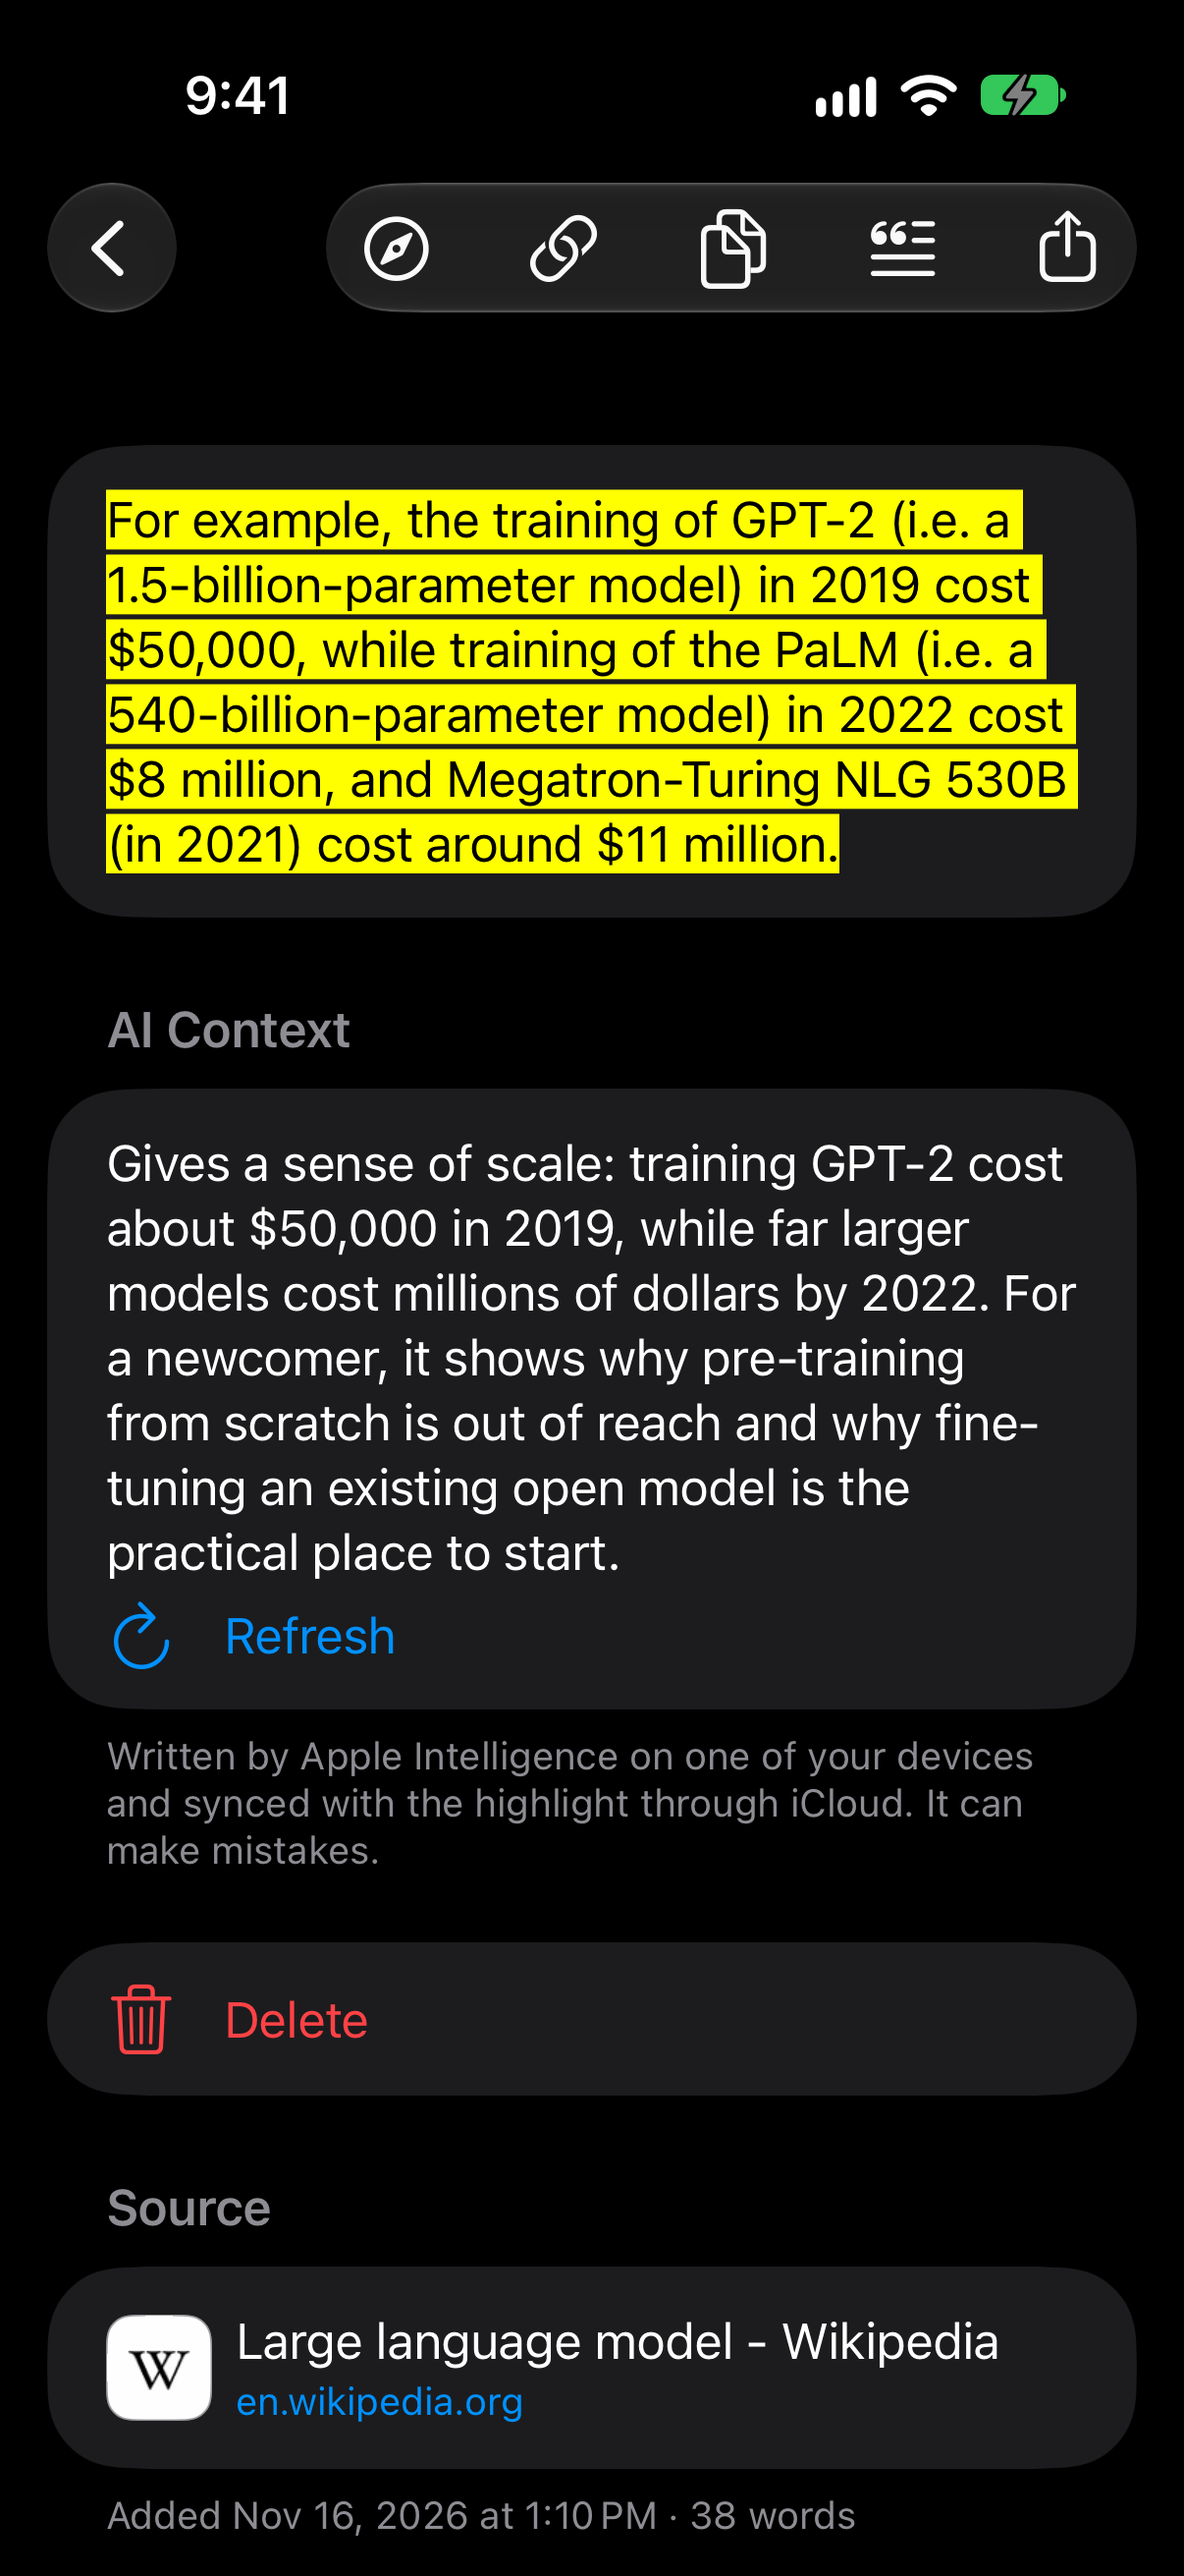
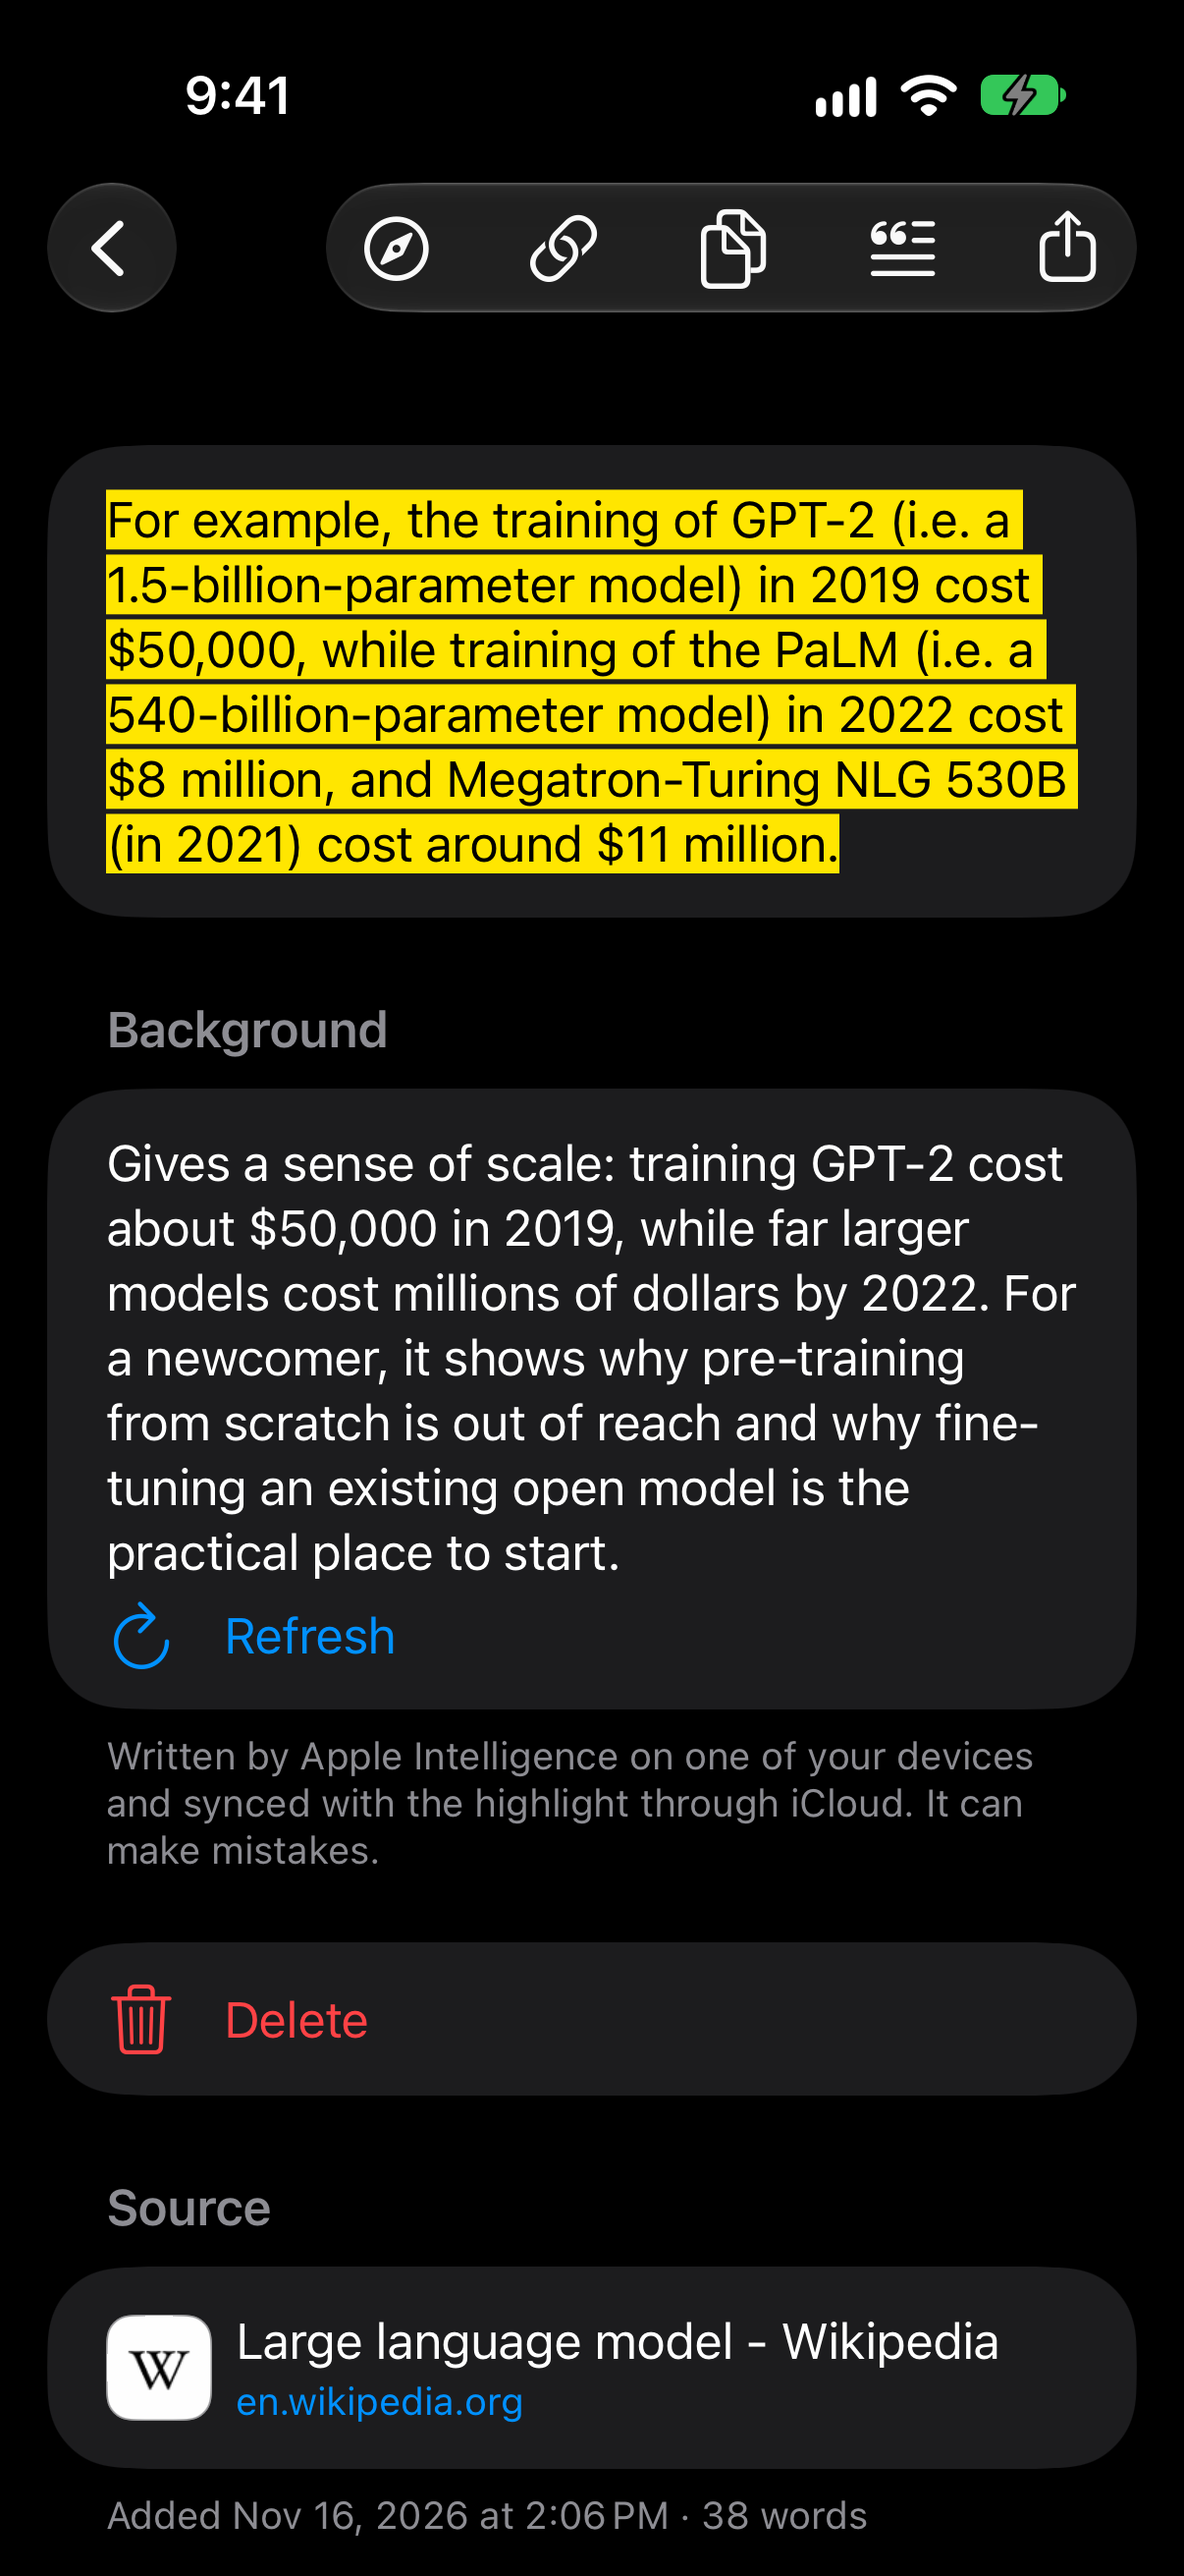
Refresh product screenshots from supplied captures
Preserve the open Duo composition and fitted devices, and match Safari dimensions to the updated capture.

diff --git a/README.md b/README.md
@@ -47,12 +47,12 @@ The home page uses the supplied light and dark product captures, not recordings 
 
 Device shells are stylized CSS illustrations, not exact or official hardware replicas: MacBook-inspired frames for wide Mac captures, an iPhone 18s-inspired portrait frame, and one open Duo frame. The portrait Mac settings capture stays in a compact window frame rather than being letterboxed inside a laptop. Only the hardware bezel surrounds each image; the screen takes its size from the capture, with no fixed-aspect letterboxing or stretching.
 
-The user-approved Duo presentation places the newer supplied 1398 × 2034 library and detail panels side by side, unchanged, with a 16 px hinge between them. The result is one 2812 × 2034 landscape screenshot in each appearance, not two independently stacked phones. Both panels remain visible together at every viewport width. The earlier top/bottom composite and portrait iPhone pair are not used.
+The user-approved Duo presentation places the newer supplied 1398 × 2034 library and detail panels side by side, unchanged, with a 16 px hinge between them. The result is one 2812 × 2034 landscape screenshot in each appearance, not two independently stacked phones. Both panels remain visible together at every viewport width. The earlier top/bottom composite and portrait iPhone pair are not used. The latest screenshot refresh updates the hero, Safari, Duo and iPhone context captures; AI Access retains its existing light/dark pair because no replacement was supplied.
 
 | Page slot | Layout / asset name / dimensions | Included screen |
 | --- | --- | --- |
 | Hero | MacBook-style · `hero` · 1960 × 1280 | Main library with its website sidebar, saved passages and selected Wikipedia training-cost highlight, AI context and source: the product overview. |
-| Highlight in Safari | MacBook-style · `capture` · 2200 × 1584 | Wikipedia's large language model article with the training-cost passage highlighted: the saved result, without a fleeting Undo message. |
+| Highlight in Safari | MacBook-style · `capture` · 1960 × 1280 | Wikipedia's large language model article with the training-cost passage highlighted: the saved result, without a fleeting Undo message. |
 | Find any passage | Open Duo · `library-duo` · 2812 × 2034 | All Highlights on the left and the selected passage's details on the right, within one landscape/open-device presentation. |
 | AI tools | Mac window · `ai-access` · 1040 × 1436 | AI settings with AI Access enabled and connection controls visible. No access token value is displayed; this is Twine's integration surface, not a built-in chat. |
 | See how a passage fits | iPhone-style · `context` · 1206 × 2622 | The highlight's details with its completed on-device AI context explanation and source. |
